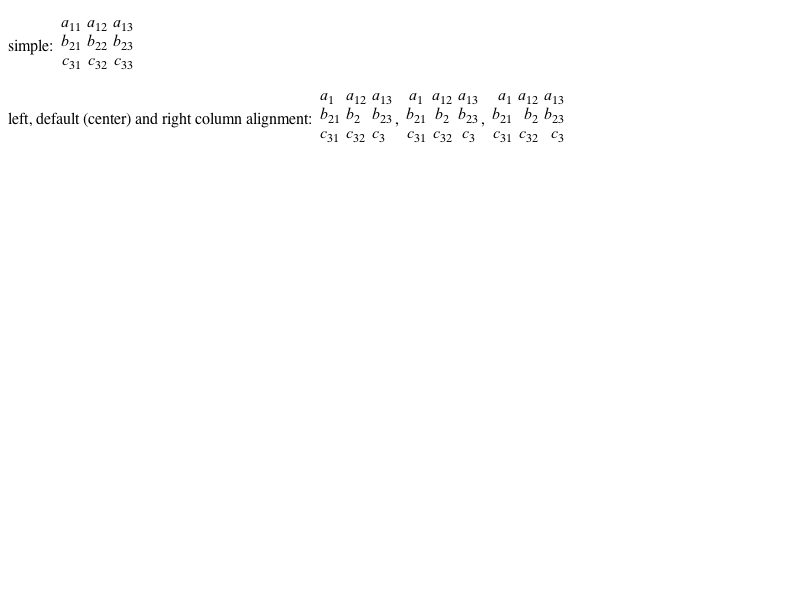
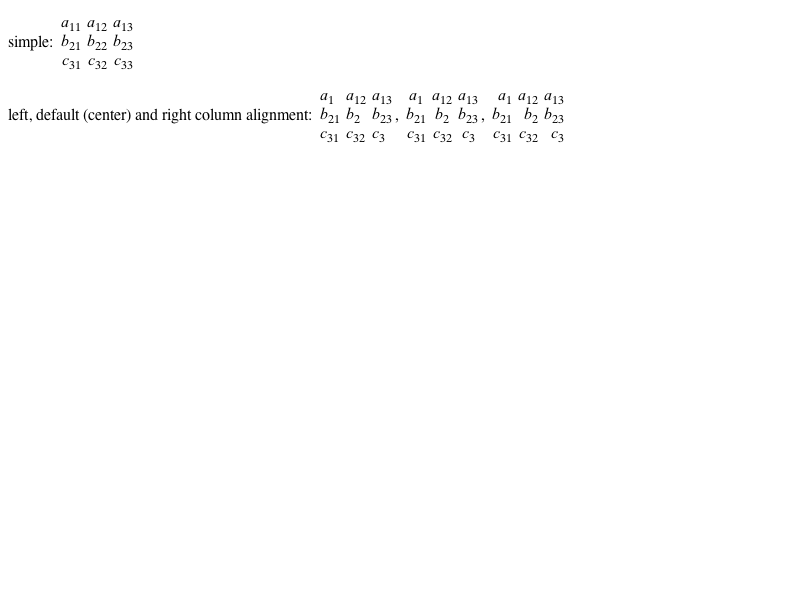
mathml/presentation/mo-stretch.html and mroot-pref-width.html tests fail on Mac https://bugs.webkit.org/show_bug.cgi?id=86786
Reviewed by Darin Adler.

Source/WebCore:

The fix to https://bugs.webkit.org/show_bug.cgi?id=84167 changed inline-table baselines,
including for <mtable>. We therefore have to correct <mtable>'s vertical-align CSS
property.

Tested by existing tests mo-stretch.html, row-alignment.xhtml, and tables.xhtml.

* css/mathml.css:
(mtable):

LayoutTests:

* platform/mac/Skipped:
* platform/mac/mathml/presentation/mo-stretch-expected.png:
* platform/mac/mathml/presentation/mo-stretch-expected.txt:
* platform/mac/mathml/presentation/row-alignment-expected.png:
* platform/mac/mathml/presentation/row-alignment-expected.txt:
* platform/mac/mathml/presentation/tables-expected.png:
* platform/mac/mathml/presentation/tables-expected.txt:

Identifier: 105455@main
git-svn-id: https://svn.webkit.org/repository/webkit/trunk@118713 268f45cc-cd09-0410-ab3c-d52691b4dbfc

Changed region(s): [[0.0, 0.18, 0.4062, 0.21], [0.0, 0.06, 0.0625, 0.09]]

diff --git a/Source/WebCore/css/mathml.css b/Source/WebCore/css/mathml.css
@@ -170,7 +170,7 @@ mroot > * + mrow, mroot > * + mfenced { /* FIXME: eliminate */
 mtable {
     display: inline-table;
     text-align: center;
-    vertical-align: -40%;
+    vertical-align: middle;
 }
 
 mtr {
